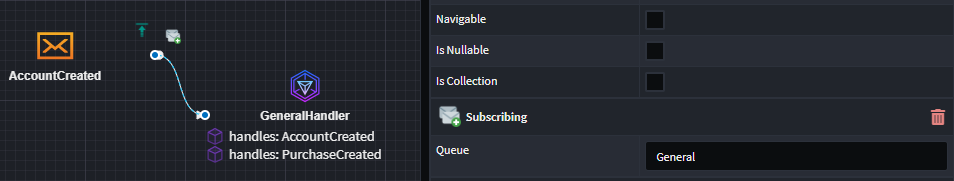
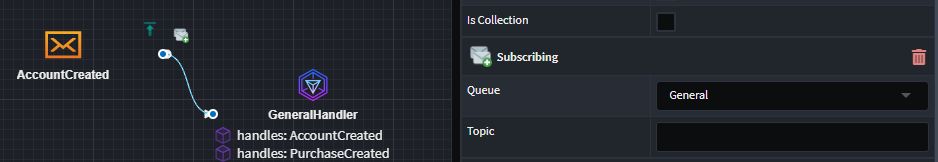
Updated docs

diff --git a/Modules/Intent.Modules.Eventing.Solace/README.md b/Modules/Intent.Modules.Eventing.Solace/README.md
@@ -40,9 +40,18 @@ When subscribing to an Integration 'Message' a `Queue` will be configured based 
 
 When subscribing to an Integration 'Command' it will use the `Queue` the command was published to.
 
-You can get specific about the publishing location by applying the `Subscribing` stereotype to the `Message` or `IntegrationCommand` and specifying the address.
+You can get specific about the subscription location by applying the `Subscribing` stereotype to the `Message` or `IntegrationCommand` and specifying the `Queue` the subscription should occur on as well as the Topic to subscribe too(This could be a wild card subscription).
 
 ![Subscribing Stereotype](./docs/images/subscribing-stereotype.png)
+
+You will need to model your queues for this, simply you `Queue`s in the service designer, so you can select them in the `Subscribing` stereotype.
+
+You can set the following properties on the queue:
+
+- Max Flows, configures the number of concurrent messages which can be process from the queue. (WindowSize)
+- Selector, configures a selector filter for the queue, typically used for load balancing.
+
+![Queue Modelling](./docs/images/queue-modelling.png.png)
 
 ## Application Settings
 
@@ -58,7 +67,16 @@ You `appsettings.json` will contain configuration for connection to your `Solace
   }
 ```
 
-The `Application` setting is a prefix which will be applied to all topic subscription queues, this guarantees unique queue names when you have multiple applications subscribing to the same topic.
-If you don't want this feature and you are going to manually specify queue names you can remove the setting.
+### Additional Settings
 
-There is also an `EnvironmentPrefix` setting which can be used, this will prefix all Queues and Topics with this value.
+| Settings  | Type | Description|
+| ------------- | ------------- |------------- |
+| EnvironmentPrefix  | string | All Queues and Topics will be prefixed with this value.|
+| DefaultSendPriority | int | All messages send without a specific priority, will have this default priority |
+| BindQueues | boolean | This setting can be used to turn of message subscriptions for an application instance. (Default: true) |
+
+## Variable Replacement on Names
+
+When specifying names for Queues, Topics and Selectors, you can use variables using the `{}` syntax. These variables will be substituted at run time but `SolaceConfig` properties, which are backed by the appsettings.json.
+
+For example: You could could subscribe to a topic using the following Queue '{Application}/MyQueue' which would equate to 'MyApp/MyQueue' at runtime. 
